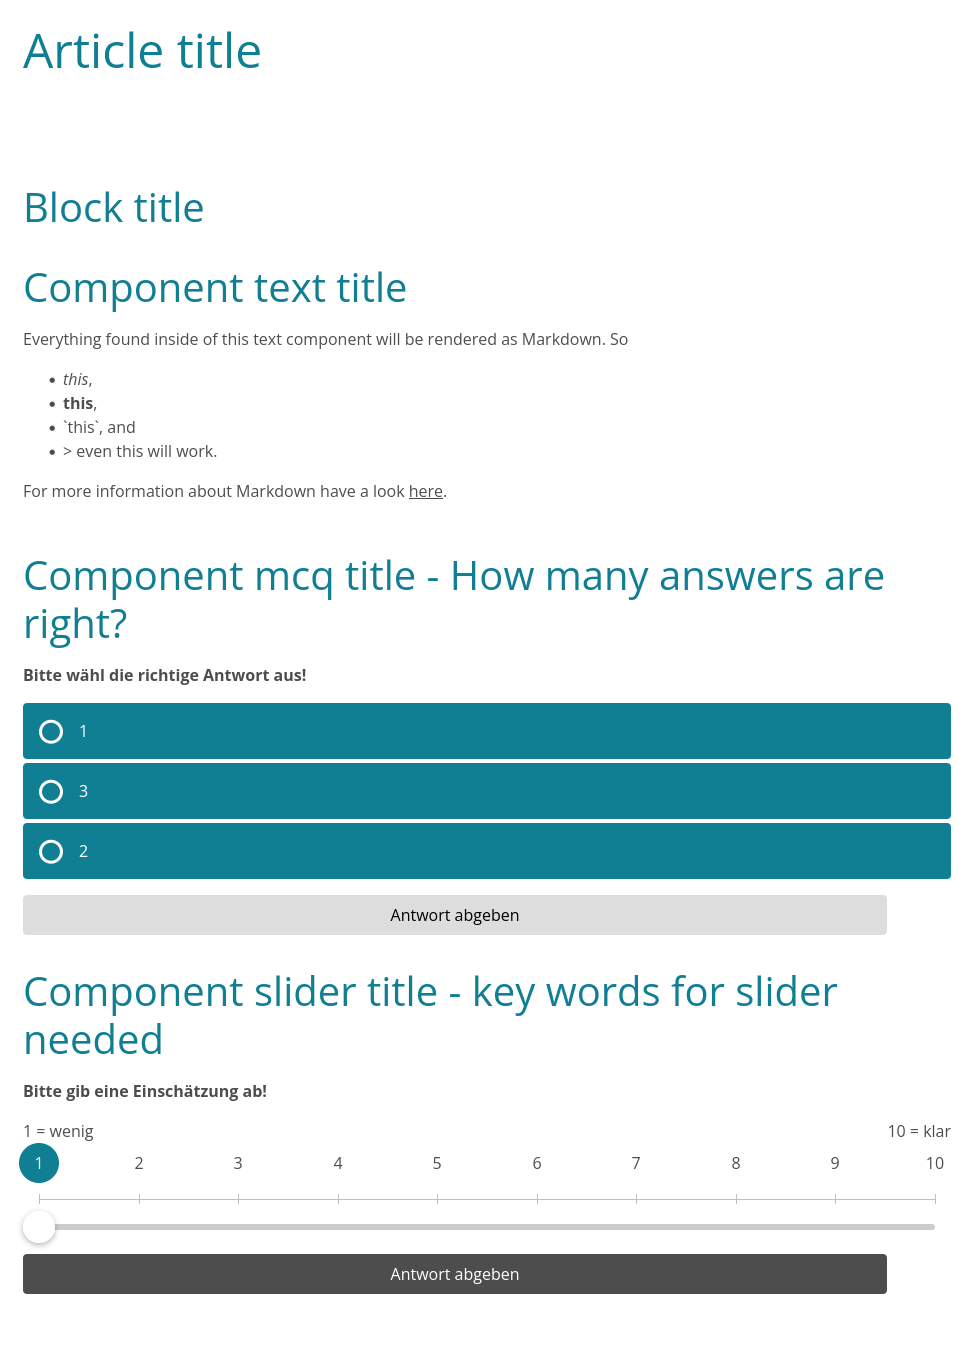
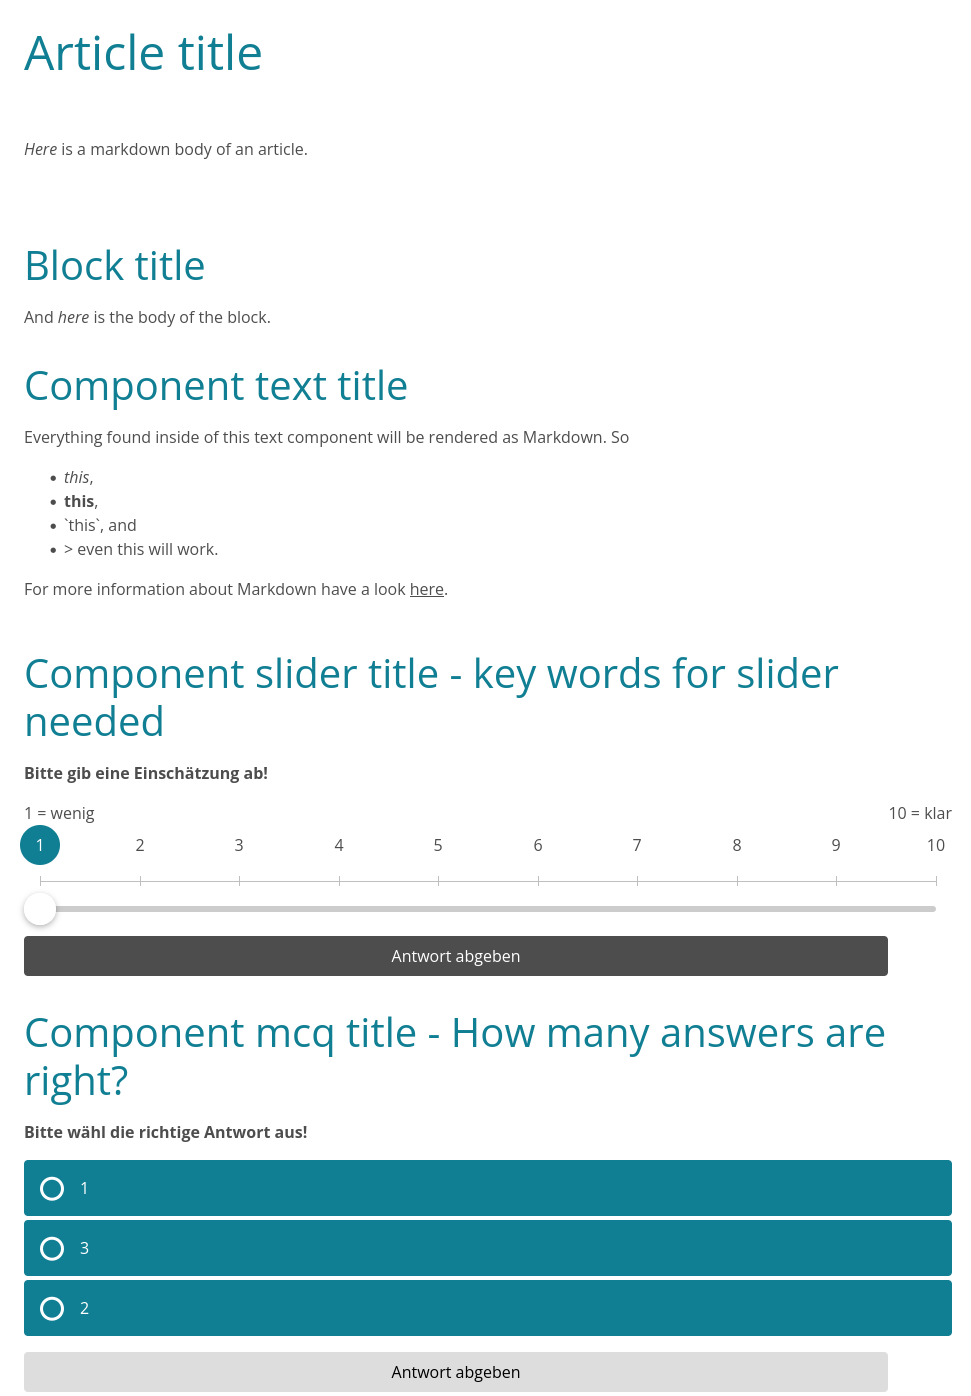
Allow bodies for articles and blocks
Update samples
Update README
Add mcq feedback to sample and README

diff --git a/md2adapt.py b/md2adapt.py
@@ -298,12 +298,13 @@ def article_template(_id: str, parent_id: str, title: str, body: str, assessment
         }
     }
 
-def block_template(_id: str, parent_id: str, track_id: int, title: str) -> Dict[str, Any]:
+def block_template(_id: str, parent_id: str, track_id: int, title: str, body: str) -> Dict[str, Any]:
     return {
         "_id": _id,
         "_parentId": parent_id,
         "_type": "block",
         "title": title,
+        "body": md_to_html(body),
         "displayTitle": title,
         "_trackingId": track_id,
         "_pageLevelProgress": {"_isEnabled": False}
@@ -588,24 +589,16 @@ def _get_all_h2_sections(sections: List[Section], total_lines: int) -> List[Sect
         result.append(Section(level=2, title=s.title, start=s.start, end=end))
     return result
 
-def get_article_body(md: str, section: Section, sections: List[Section]):
-    """
-    Get body for Section 'section' (level=3) in md,
-    from the heading line (section.start) + 1 until the next heading, or end of doc.
-    Skips the heading line.
-    """
-    all_lines = md.splitlines()
+def get_section_body(md: str, section: Section, sections: list[Section]) -> str:
+    lines = md.splitlines()
     start = section.start + 1
-    # Find the next heading _after_ this section (by line index, not by heading level)
-    next_heading_idx = None
-    for s in sections:
-        if s.start > section.start:
-            next_heading_idx = s.start
-            break
-    end = next_heading_idx if next_heading_idx is not None else len(all_lines)
-    # Build the body
-    lines = all_lines[start:end]
-    return "\n".join(lines).strip()
+    # Find the next heading at same or higher level
+    nexts = [s for s in sections if s.start > section.start and s.level != section.level]
+    if nexts:
+        end = nexts[0].start
+    else:
+        end = len(lines)
+    return "\n".join(lines[start:end]).strip()
 
 # -------- Builder orchestrator --------
 def build_from_markdown(md: str, lang: str, menu_title: str) -> Tuple[List[Dict], List[Dict], List[Dict], List[Dict], Dict]:
@@ -670,13 +663,13 @@ def build_from_markdown(md: str, lang: str, menu_title: str) -> Tuple[List[Dict]
             a_heads = [s for s in sections if s.level == 3 and p_sec.start <= s.start < p_sec.end]
             if not a_heads:
                 a_heads = [Section(level=3, title=p_sec.title, start=p_sec.start, end=p_sec.end)]
-        print(a_heads)
+
         for a_sec in a_heads:
             article_id = ids.new()
             assesment_id=ids.new()
             # new body
-            article_body = get_article_body(md, a_sec, sections)
-            articles.append(article_template(article_id, page_id, a_sec.title, body=article_body, assessment_id=assesment_id))
+            article_text_body = get_section_body(md, a_sec, sections)
+            articles.append(article_template(article_id, page_id, a_sec.title, body=article_text_body, assessment_id=assesment_id))
 
             # Blocks
             if has_block_h2:
@@ -709,7 +702,8 @@ def build_from_markdown(md: str, lang: str, menu_title: str) -> Tuple[List[Dict]
             for b_sec, chunk in zip(b_heads, b_chunks):
                 block_id = ids.new()
                 b_marker, b_title = split_marker(b_sec.title)
-                blocks.append(block_template(block_id, article_id, tracking, b_title))
+                block_text_body = get_section_body(md, b_sec, sections)
+                blocks.append(block_template(block_id, article_id, tracking, b_title, body=block_text_body))
                 tracking += 1
 
                 if has_block_h2:

diff --git a/resources/sample.md b/resources/sample.md
@@ -1,6 +1,10 @@
 # Article title
 
+*Here* is a markdown body of an article.
+
 ## Block title
+
+And *here* is the body of the block.
 
 ### Component text title
 
@@ -14,14 +18,21 @@ So
 
 For more information about Markdown have a look [here](https://www.markdownguide.org/).
 
+### Component slider title - key words for slider needed
+
+scale: 1..10
+labelStart: "1 = wenig"
+labelEnd: "10 = klar"
+
 ### Component mcq title - How many answers are right?
 
 * [x] 1
 * [ ] 2
 * [ ] 3
 
-### Component slider title - key words for slider needed
+### Component mcq title - How many answers are right? (with feeedback keyword)
 
-scale: 1..10
-labelStart: "1 = wenig"
-labelEnd: "10 = klar"
+* [x] 1
+* [ ] 2
+* [ ] 3
+Feedback: Only one answer is right.

diff --git a/README.md b/README.md
@@ -47,6 +47,18 @@ python md2adapt.py --out ./output /path/to/your/markdown-template.md
 
 ## Current Mapping
 
-The given [Markdown sample](./sample.md) will look like this in Adapt:
+The given [Markdown sample](./resources/sample.md) will look like this in Adapt:
+![alt text](sample.png)
 
-![alt text](image.png)
+### mcq can be given with feedback
+
+```Markdown
+### Component mcq title - How many answers are right? (with feeedback keyword)
+
+* [x] 1
+* [ ] 2
+* [ ] 3
+Feedback: Only one answer is right.
+```
+![alt text](resources/img/feedback1.png)
+![alt text](resources/img/feedback2.png)
